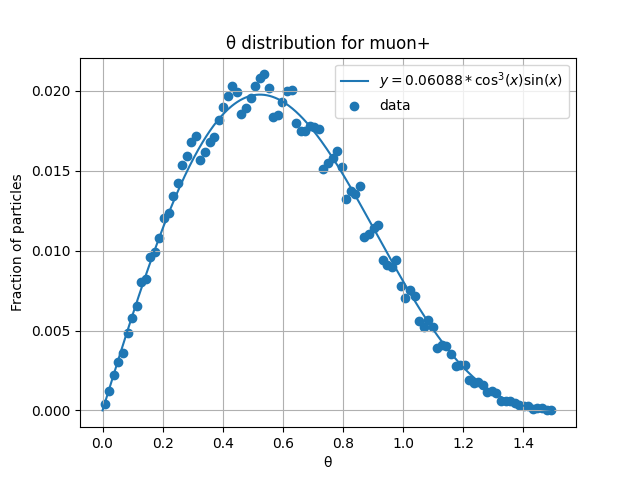
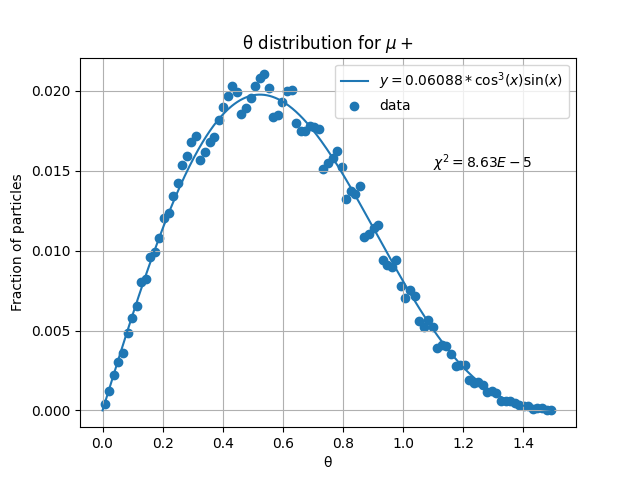
bmd-lab-update-1 updates

Changed region(s): [[0.3438, 0.0625, 0.6562, 0.125], [0.6875, 0.3125, 0.8125, 0.375]]

diff --git a/src/slideshows/bdm-lab-update-1-cry/BDMLabUpdate1CRY.vue b/src/slideshows/bdm-lab-update-1-cry/BDMLabUpdate1CRY.vue
@@ -19,9 +19,9 @@
       span.slide-number {{currentSlideIndex}}/{{slides.length}}
     slide(enter='fadeIn' leave='bounceOutLeft')
       .container-fluid
-        .row
+        .row(style="height:50vh;")
           h3 Outline
-          ol
+          ol.spaced-ul
             li Cosmic-ray Shower Library (CRY)
             li CRY output analysis
             li Importing .stp format geometry into Geant4
@@ -34,8 +34,8 @@
           a(href="http://nuclear.llnl.gov/simulation" target="_blank") [2]
       .container-fluid.mt-4
         .row
-          .col-6
-            ul
+          .col-6(style="height: 70vh;")
+            ul.spaced-ul
               li Can be run stand alone or with GEANT4 or MCNP or other libraries.
               li Simulated altitudes at 0 m, 2100 m and 11300 m.
               li Covers all latitudes.
@@ -57,13 +57,13 @@
       .container-fluid.mt-2
         .row
           .col-6
-            ul
+            ul.spaced-ul
               li Generated 10
                   sup 6
                   | events
               li in Stand alone mode.
               li Calculated the flux value from the particles produced by the library.
-              li Time handling in library is not well understood.
+              //li Time handling in library is not well understood.
               //li Plotting and analysis was done in
               //  |
               //  |
@@ -80,26 +80,42 @@
               //  |
               //  a(href="https://numpy.org/" target="_blank") numpy
               //  |.
-              li Flux and Energy Distribution results matched with previously generated results by samir bhaiya.
-            img(src="./assets/Energy_distribution.png").half-image
+              li Flux and Energy Distribution results matched with previously generated results by samir.
           .col-6.center
             img(src="./assets/Flux_2pi.png").half-image
-            img(src="./assets/Flux.png").half-image
+            img(src="./assets/flux_samir.png").half-image
+            //img(src="./assets/Flux.png").half-image
+      span.slide-number {{currentSlideIndex}}/{{slides.length}}
+
+    slide(enter="fadeIn" leave="bounceOutLeft").wide-slide
+      h3 CRY output analysis - contd.
+      .mt-5
+        h4.m-1 Energy Distribution plots
+        img(src="./assets/Energy_distribution.png").half-image
+        img(src="./assets/Energy_distribution2.png").half-image
+        img(src="./assets/energy_distribution_samir.png").half-image.ml-2
       span.slide-number {{currentSlideIndex}}/{{slides.length}}
 
     slide(enter="fadeIn" leave="bounceOutLeft").wide-slide
       h3 CRY output analysis - contd.
       .container-fluid.mt-2
+        h4.m-1 Angular Distribution
         .row
           .col-6
-            ul
-              li Particles were not all perpendicular.
-              li Incidence angle could be trivially calculated from the vector momentum of particles coming from CRY.
+            ul.spaced-ul
+              //li Incidence angle was calculated from the vector momentum of particles coming from CRY.
               li θ is the angle between momentum vector and area vector of surface.
-              li The plot fit excellently (chi
+              //li The data points are described with (chi
+              //  sup 2
+              //  |/ndf = 8.63E-5) with 5% error. [equation in plot]
+              li Muons follow a "cos
                 sup 2
-                |/dof = 8.63E-5) with 5% error. [equation in plot]
-              li The derivation for it goes here.
+                |"
+                | distribution
+                sup [pdg]
+                |.
+              li Another "cos" due to area component, as flux is defined normally.
+              li and the "sin" due to the solid angle factor.
               li Matching with the theoretical result.
           .col-6
             img(src="./assets/Component_distribution.png")
@@ -111,24 +127,28 @@
         .row
           .col-6
             h4.m-3 Problem
-            ul
+            ul.spaced-ul
               li .stp files for .step files in which 3D CAD files are saved.
               li Geant4 is not capable of importing .stp or .step files directly into it's geometry
               li Input was in .stp format
-            p A screenshot of it
+              img(src="https://external-content.duckduckgo.com/iu/?u=https%3A%2F%2Ftse1.mm.bing.net%2Fth%3Fid%3DOIP.--fMSTR-MSQd-xNMXPP3KQAAAA%26pid%3DApi&f=1" style="width:40vh;").half-image
           .col-6
             h4.m-3 Solution
             ul
               li Open the .stp file in FreeCAD
+                sup [
+                  a(href="https://www.freecadweb.org/") FreeCAD
+                  |]
               li Export each component as .obj file
               li Import the following library into your project [
                 a(href="https://github.com/christopherpoole/CADMesh") christopherpoole/CADMesh
                 |].
-              li Now you will be abel to import .obj files into Geant4 geometry.
+              li Now you will be able to import .obj files into Geant4 geometry.
             h4.m-3 Caveats
             ul
               li Conversion from .stp to .obj is very manual.
               li It can get cumbersome if the number of parts in the .stp file is too large as you will have to export each of them individually.
+      span.slide-number {{currentSlideIndex}}/{{slides.length}}
 
     slide(enter='fadeIn' :steps=2)
       h3 Thank you !
@@ -185,7 +205,7 @@ export default {
     }
   }
   p, li, td {
-    font-family: 'Roboto';
+    font-family: 'Roboto',serif;
     z-index: 1;
   }
   p {
@@ -200,7 +220,7 @@ export default {
     padding: 10px;
   }
   h1, h2, h3, h4, th {
-    font-family: 'Montserrat';
+    font-family: 'Montserrat',serif;
   }
   ul {
     margin-top: 5px;
@@ -275,6 +295,14 @@ export default {
       z-index: 100;
       transition: width 1s ease-out;
     }
+  }
+  .wide-flex {
+    width: 100%;
+    height: 100%;
+  }
+  .right {
+    display: block;
+    margin-left: auto;
   }
 }
 </style>

diff --git a/src/slideshows/bdm-lab-update-1-cry/components/EndCredits.vue b/src/slideshows/bdm-lab-update-1-cry/components/EndCredits.vue
@@ -26,22 +26,50 @@ export default {
         'References': [
           {
             name: '[1]',
-            role: 'SuperCDMS\'s SNOLAB'
+            role: 'CRY documentation'
           },
           {
             name: '[2]',
-            role: 'Sharada\'s Project Update 1'
+            role: 'CRY download Page'
           },
           {
             name: '[3]',
-            role: 'MINER Paper'
+            role: 'Monte Carlo Simulation of Proton-Induced Cosmic Ray Cascades in Atmosphere'
           },
           {
-            name: '[4]',
-            role: 'Phys. Rev. D 9(1974)'
+            name: '[pdg]',
+            role: 'C.Patrignani er al. (Particle Data Group), Chin. Phys. C, 40, 100001 (2016) - p422'
+          },
+          {
+            name: '[FreeCAD]',
+            role: 'FreeCAD'
           }
         ],
         'Software': [
+          {
+            name: 'python and C++',
+            role: 'Programming Languages used'
+          },
+          {
+            name: 'CRY',
+            role: 'Primary Generating library'
+          },
+          {
+            name: 'pandas',
+            role: 'Data file handling'
+          },
+          {
+            name: 'scipy',
+            role: 'fitting'
+          },
+          {
+            name: 'numpy',
+            role: 'matrix generation'
+          },
+          {
+            name: 'matplotlib',
+            role: 'plots'
+          },
           {
             name: 'Vue.js',
             role: 'Front-end engine'

diff --git a/src/main.js b/src/main.js
@@ -25,7 +25,7 @@ slideshows.list.forEach(function (slideshow) {
 routes.push({ path: '*', component: Home })
 
 let router = new Router({
-  mode: 'history',
+  // mode: 'history',
   routes
 })
 
